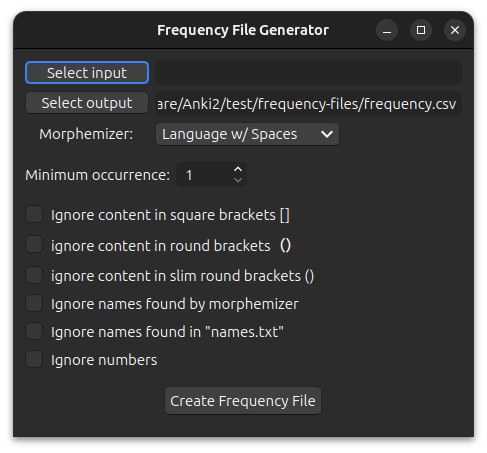
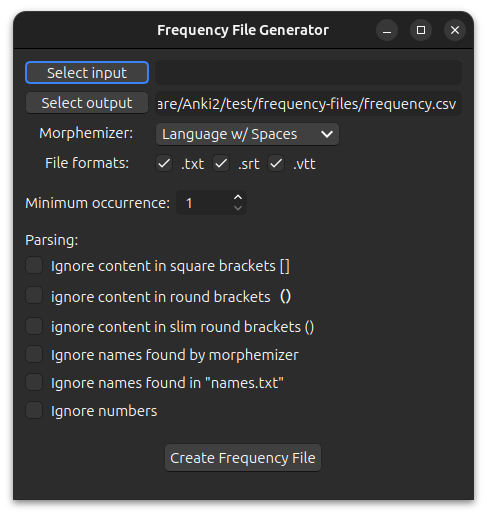
updated frequency file generator guide

diff --git a/docs/src/user_guide/usage/frequency-file-generator.md b/docs/src/user_guide/usage/frequency-file-generator.md
@@ -21,14 +21,44 @@ Base : Inflection
 To prevent misinterpretation of the inflected morphs we also store the base.
 
 ### Select Input
-Select one or more files that you want to create the frequency file from. Selecting all files from a folder can be done
-with Ctrl+A (Cmd+A).
+
+Here you have to select a folder. Any files that match your selected file formats and are in this folder or sub-folders,
+will be used by the frequency file generator.
+
+Take for example the following folders and their files:
+
+```
+english_texts/
+    - books/
+        - The Wise Man's Fear/
+            - The Wise Man's Fear.epub
+            - The Wise Man's Fear.txt
+    - subs/
+        - Game-of-Thrones/
+            - episode_1.srt
+        - Lord_of_the_Rings/
+            - The_Fellowship_of_the_Ring.vff
+
+```
+
+If you were to select the `books` folder and you checked the .txt file format, then the frequency file analyzer would
+only use the `The Wise Man's Fear.txt` file.
+
+If you were to select the folder `english_texts` and you checked all the file format options, then the frequency file analyzer would
+use the files:
+- `The Wise Man's Fear.txt`
+- `episode_1.srt`
+- `The_Fellowship_of_the_Ring.vff`
 
 ### Select Output
-The output file is automatically set to be `[anki profile folder]/frequency-files/frequency.csv`.
+
+The output file is automatically set to be `[anki profile folder]/frequency-files/frequency.csv`. You can set it to be
+what ever you want.
 
 ### Minimum Occurrence
+
 You can limit the morphs to only those that occur at least this many times.
 
 ### Ignore
+
 The 'ignore'-options are the equivalent to those found in ['Parse' settings](../setup/settings/parse.md).
